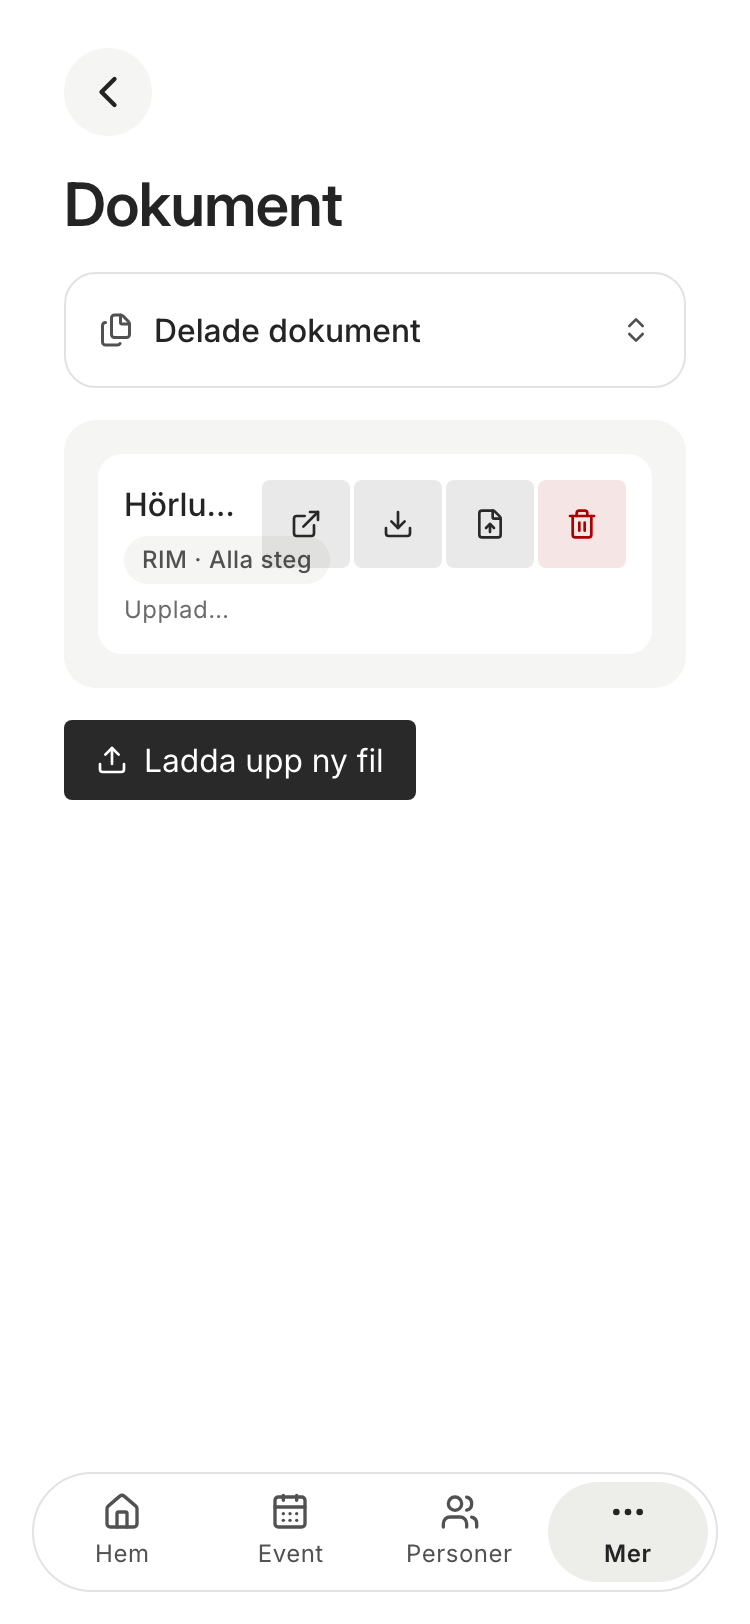
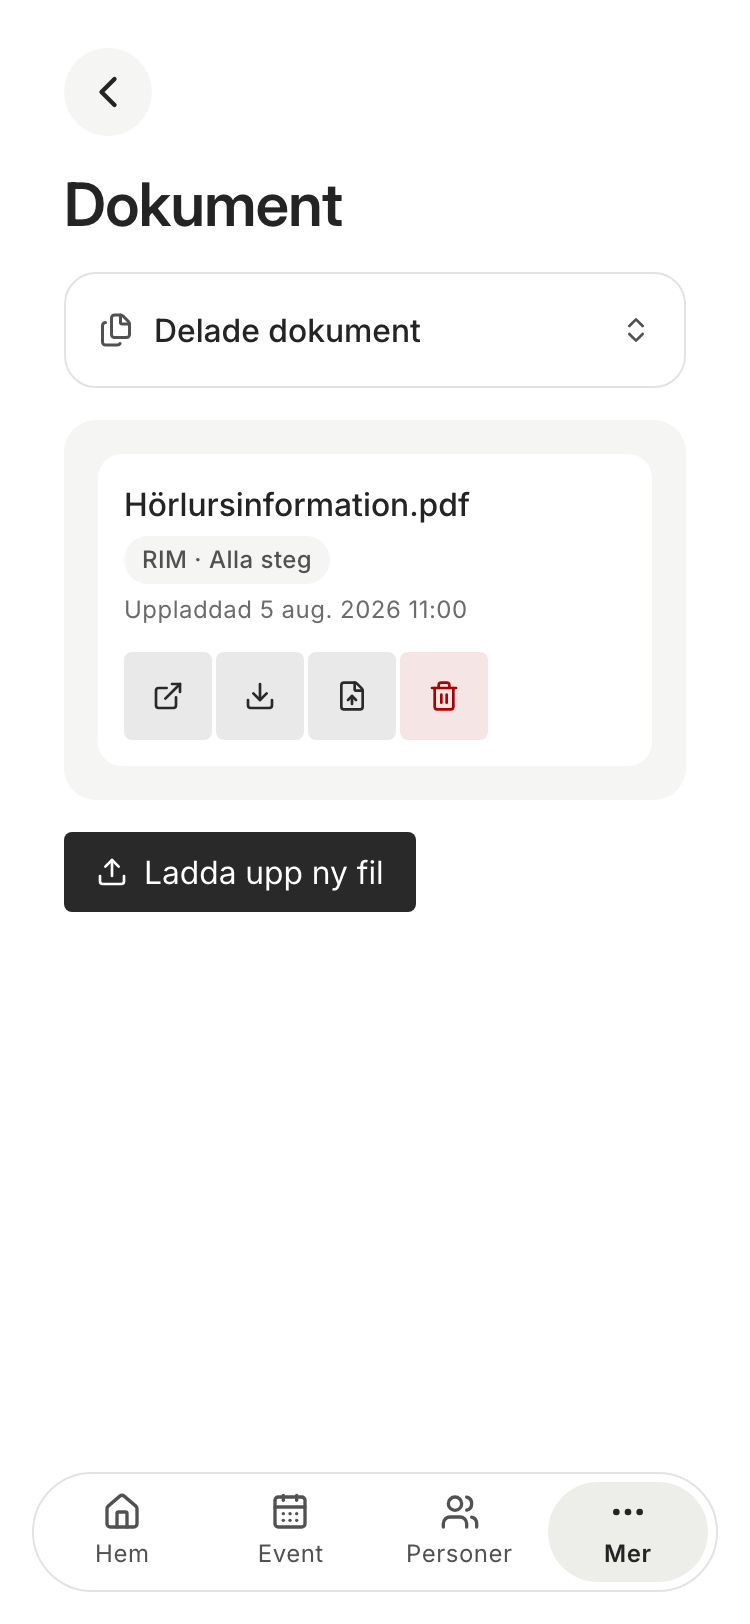
fix(dokument): [TASK-309.20] 375px-defekter i dokumentytan — badge-overlapp och namn-trunkering
Fixar två formdefekter avtäckta av skiva 9-agenten under facit-tagningen
(TASK-273.4-regressionen, b881fe64), lagade FÖRE Marcus stämplar skiva 9:s
facit-manifest (Marcus GO 2026-08-26, billigare än amendering efteråt):

- Räckviddslägets ikonknappar låg delvis över RackviddBadge-pillen vid
  375 px (badgen bar shrink-0 utan truncate, och dess flex-wrap-behållare
  saknade w-full/min-w-0 — en för bred badge flöt ut över grannkolumnen
  i stället för att klippas). Fixat i RackviddBadge.tsx och den delade
  TACKNING_KLASS (DokumentYta.tsx), som bar samma sårbarhet för
  Mall-badgen.

- Event-mallade raders filnamn trunkerades till "Bekr…" vid 375 px när
  fyra ikonknappar (182 px) inte fick plats bredvid namnkolumnen.
  DokumentRadSkal fick flex-wrap + namnkolumnens golv min-w-[12ch] i
  stället för min-w-0 — den redan dokumenterade fallback-planen
  (IKONKNAPP_KLASS docblock, Marcus 2026-08-17: "rätt svar är att låta
  raden bryta, inte att krympa träffytan"). Ikonkolumnen bryter nu till
  en egen rad när båda inte får plats; namnet får då hela radbredden.

De två mobila facit-bilderna i s108-dokumentytan/ är omtagna med samma
rigg/metod som skiva 9 (hermetisk fixturvärld, animations disabled,
375×812 @2x, ingen fullPage). facit.json "not"-fält uppdaterat, "godkand"
orört.

diff --git a/src/components/dokument/DokumentYta.tsx b/src/components/dokument/DokumentYta.tsx
@@ -653,9 +653,18 @@ const LISTA_MAXHOJD = 'max-h-[396px]';
  * NÄSTLINGEN, aldrig vanan.** Byter en behållare bakgrund måste allt som
  * ligger I den prövas om — och prövningen är en mätning av `backgroundColor`,
  * inte en blick på klassnamnet.
+ *
+ * [TASK-309.20] `min-w-0 max-w-full truncate`, INTE `shrink-0` — samma fix
+ * som `RackviddBadge.tsx` fick, av samma mätta skäl (se dess docblock för
+ * pixelbeläggen): en Mall-badge med lång text ("Bekräftelsebilaga", 17 tecken)
+ * i en Event-mallad rad vid 375 px flöt annars ut över ikonknapparna på
+ * exakt samma sätt som räckviddsbadgen — X-överlappet mättes (badge
+ * `x=62 width=121` mot första knappens `x=131`), även om Y-banden råkade
+ * missa varandra i just den mätta raden. Samma underliggande arkitekturfel,
+ * så samma fix på den delade klassen.
  */
 const TACKNING_KLASS =
-  'inline-flex shrink-0 items-center rounded-full border border-transparent bg-bg-muted px-2 py-0.5 font-medium text-caption text-text-secondary contrast-more:border-border-strong';
+  'inline-flex min-w-0 max-w-full items-center truncate rounded-full border border-transparent bg-bg-muted px-2 py-0.5 font-medium text-caption text-text-secondary contrast-more:border-border-strong';
 const IKON_STORLEK = 16;
 
 function MetaRad({ delar }: { delar: (string | null)[] }) {
@@ -874,6 +883,42 @@ function DokumentAtgardsKnappar({ namn, kalla }: { namn: string; kalla: Dokument
  *
  * "+N ÄLDRE FILER" FLYTTADE IN I DATUMLEDET. Den stod som en fjärde rad och
  * bröt låsningen för just de rader som hade dubbletter.
+ *
+ * ═══ [TASK-309.20] RADEN BRYTER NU VID 375 px NÄR FYRA IKONKNAPPAR INTE
+ * FÅR PLATS — "skyddsnätet" höll inte för NORMALFALLET ═══
+ *
+ * Mätt (facit `s108-generering/facit-dokumentlista-inaktuell-rad-mobil.png`
+ * + `s108-dokumentytan/facit-dokumentyta-rackviddslage-mobil.png`): en
+ * Event-mallad rad med FYRA handlingar (Öppna/Ladda ner/Skapa om/Ersätt,
+ * `IKONKNAPP_KLASS`s egen räkning: 4×44 px + 3×2 px = 182 px) trunkerade
+ * "Bekräftelsebilaga.pdf" till "Bekr…" — fyra tecken, inte den 17–24-tecken-
+ * normalen stycket ovan förutsätter. Orsaken är ARITMETISK, inte kosmetisk:
+ * vid 375 px är radens tillgängliga bredd (mätt, `RAD_BOX`) 251 px; 182 px
+ * ikonkolumn + 12 px mellanrum lämnar bara 57 px åt namnet — under
+ * "skyddsnät för undantaget"-antagandet stycket ovan bygger på.
+ *
+ * FIXEN ÄR DEN REDAN DOKUMENTERADE PLANEN (`IKONKNAPP_KLASS`s docblock,
+ * Marcus 2026-08-17): *"Skulle bredden ändå inte räcka på en smal skärm är
+ * rätt svar att låta raden bryta, inte att krympa träffytan."* Namnkolumnen
+ * bär nu `min-w-[12ch]` i stället för `min-w-0` (ETT golv, ingen ceiling —
+ * kolumnen krymper fortfarande till EXAKT den bredd raden ger den så länge
+ * båda får plats på en rad, precis som förut). Radens eget skal fick
+ * `flex-wrap`: när ikonkolumnens (`shrink-0`, ingen tillåten krympning)
+ * hypotetiska bredd + namnkolumnens 12ch-golv + mellanrummet överskrider
+ * radens bredd, flyttar CSS-motorn ikonkolumnen till en EGEN rad under —
+ * namnkolumnen står då ensam på sin rad och `flex-1` fyller HELA bredden
+ * (251 px i det mätta fallet, gott om plats för "Bekräftelsebilaga.pdf" i
+ * sin helhet). Vid gott om bredd (skrivbord, eller mobil med färre knappar)
+ * händer ingenting nytt — vägen är oförändrad.
+ *
+ * DETTA BRYTER INTE höjdlåsningen ovan: samma facit-bild visar att rader
+ * REDAN varierar i höjd med sitt innehåll (raden med tre badgar — Detta
+ * event/Mall/Inaktuell — är synligt högre än syskonraderna med bara en).
+ * Låsningen är ett GOLV (namn/täckning/datum renderas ALLTID, aldrig
+ * kortare), inte ett tak — en rad får vara högre när den bär mer, och en
+ * rad vars ikonkolumn bryter till en egen rad är samma sorts variation.
+ * 12ch är ett MEDVETET, JUSTERBART golv (motsvarande knapparnas egna 44 px-
+ * golv i princip, inte i magnitud) — inte en ny interaktionsform.
  */
 function DokumentRadSkal({
   namn,
@@ -889,8 +934,8 @@ function DokumentRadSkal({
   handlingar: React.ReactNode;
 }) {
   return (
-    <div data-testid="dokument-fil" className="flex items-start gap-3 py-3">
-      <span className="flex min-w-0 flex-1 flex-col items-start gap-1">
+    <div data-testid="dokument-fil" className="flex flex-wrap items-start gap-3 py-3">
+      <span className="flex min-w-[12ch] flex-1 flex-col items-start gap-1">
         <span className="w-full min-w-0 truncate font-medium text-body" title={namn}>
           {namn}
         </span>
@@ -901,8 +946,17 @@ function DokumentRadSkal({
             varje icke-Event-mallad rad (uppladdade/person-genererade filer),
             så de allra flesta rader visar EXAKT samma två-badge-yta som
             förut. INAKTUELL bär TEXT, inte bara färg (`StatusBadge`,
-            WCAG 1.4.1 — samma disciplin som RackviddBadge/nivåbadgar). */}
-        <span className="flex flex-wrap items-center gap-1">
+            WCAG 1.4.1 — samma disciplin som RackviddBadge/nivåbadgar).
+
+            [TASK-309.20] `w-full min-w-0` TILLAGT — utan dem sizear denna
+            flex-wrap-rad sig efter sitt EGET innehåll (kolumnens
+            `items-start` stretchar inte barn), så badgens tilldelade bredd
+            var odefinierad och en enda för bred badge (`shrink-0`) flöt rakt
+            ut över ikonknapparna i stället för att TRUNKERAS inom raden.
+            Samma `w-full min-w-0`-par som namnspannet ovan bär redan, av
+            samma skäl (`DokumentRadSkal`s docblock). Se `RackviddBadge.tsx`
+            och `TACKNING_KLASS` för motsvarande fix på badgens egen sida. */}
+        <span className="flex w-full min-w-0 flex-wrap items-center gap-1">
           <RackviddBadge
             rackvidd={current.rackvidd}
             kursfamilj={current.kursfamilj}

diff --git a/src/components/dokument/RackviddBadge.tsx b/src/components/dokument/RackviddBadge.tsx
@@ -60,7 +60,10 @@ export function RackviddBadge({
   // i badgen — den säger nu bara vad DEN HÄR raden gäller också.
   if (rackvidd !== AttachmentScope.KURSTYP && rackvidd !== AttachmentScope.ALLA_EVENT) {
     return (
-      <span className="inline-flex shrink-0 items-center rounded-full border border-transparent bg-bg-muted px-2 py-0.5 font-medium text-caption text-text-secondary contrast-more:border-border-strong">
+      <span
+        className="inline-flex min-w-0 max-w-full items-center truncate rounded-full border border-transparent bg-bg-muted px-2 py-0.5 font-medium text-caption text-text-secondary contrast-more:border-border-strong"
+        title="Detta event"
+      >
         Detta event
       </span>
     );
@@ -128,7 +131,35 @@ export function RackviddBadge({
     // NÄSTLINGEN, aldrig vanan — och "syns den?" besvaras med en mätning av
     // `backgroundColor` i renderad yta, aldrig med en blick på klassnamnet
     // eller ett resonemang om vilken yta som "brukar" bära vad.
-    <span className="inline-flex shrink-0 items-center rounded-full border border-transparent bg-bg-muted px-2 py-0.5 font-medium text-caption text-text-secondary contrast-more:border-border-strong">
+    //
+    // ═══ `min-w-0 max-w-full truncate`, INTE `shrink-0` — TASK-309.20 ═══
+    //
+    // Pillen bar `shrink-0` sedan tillkomsten. Mätt vid 375 px (räckviddsläget,
+    // badgetexten "RIM · Alla steg", Playwright mot hermetisk fixturvärld,
+    // se TASK-309.20s Final Summary för hela mätserien): badgens box
+    // `x=62 width=103` mot första ikonknappens `x=131` — badgen fortsatte
+    // 34 px IN i knapp-kolumnen, och knappen (senare i DOM-ordningen, samma
+    // stapelkontext) målades ovanpå. Ground truth: den stämplade facit-bilden
+    // `tasks/sessions/bilagor/s108-dokumentytan/facit-dokumentyta-rackviddslage-mobil.png`
+    // visar exakt detta — badgens högra kant syns bakom den röda
+    // Radera-knappen.
+    // `shrink-0` förbjuder krympning, så när badgens naturliga textbredd är
+    // större än kolumnens tilldelade utrymme finns bara en väg ut: den flyter
+    // över `overflow: visible` (default) rakt in i grannkolumnen.
+    //
+    // Fixen är samma idiom filnamnet redan bär (`DokumentYta.tsx`s
+    // `DokumentRadSkal`-docblock: "NAMNET TRUNKERAS I STÄLLET FÖR ATT
+    // RADBRYTA … truncate kräver min-w-0"): tillåt krympning (utelämna
+    // `shrink-0`, default är `flex-shrink: 1`), `min-w-0` river det implicita
+    // `min-width: auto` som annars vägrar krympa under textens egen bredd, och
+    // `truncate` klipper med ellips i stället för att låta texten svämma över
+    // pillens rundade kant. Behållaren måste ÄVEN vara bredd-bunden
+    // (`DokumentYta.tsx`s badge-rad bär nu `w-full min-w-0` av samma skäl) —
+    // annars finns inget "tillgängligt utrymme" att krympa MOT.
+    <span
+      className="inline-flex min-w-0 max-w-full items-center truncate rounded-full border border-transparent bg-bg-muted px-2 py-0.5 font-medium text-caption text-text-secondary contrast-more:border-border-strong"
+      title={text}
+    >
       {text}
     </span>
   );

diff --git a/backlog/tasks/task-309.20 - Dokumentytan-vid-375-px-filnamn-trunkeras-och-ikonknappar-ligger-över-räckviddsbadgen.md b/backlog/tasks/task-309.20 - Dokumentytan-vid-375-px-filnamn-trunkeras-och-ikonknappar-ligger-över-räckviddsbadgen.md
@@ -6,6 +6,7 @@ title: >-
 status: To Do
 assignee: []
 created_date: '2026-08-24 17:54'
+updated_date: '2026-08-26 02:51'
 labels:
   - ready-for-agent
 dependencies: []
@@ -33,10 +34,10 @@ Agenten bokförde observationen i manifestens not-fält i stället för att tyst
 
 ## Acceptance Criteria
 <!-- AC:BEGIN -->
-- [ ] #1 Filnamnet på Event-mallade rader är läsbart vid 375 px — trunkeringen ger tillräckligt med tecken för att skilja dokumenten åt
-- [ ] #2 Ikonknapparna ockluderar inte räckviddsbadgen i räckviddsläget vid 375 px
-- [ ] #3 Avgjort och bokfört: lagas FÖRE Marcus stämplar skiva 9:s facit (billigare), eller efter med amendering (ADR-102 klass c)
-- [ ] #4 Regressionsskydd: den mobila vyporten bär facit för båda lägena efter fixen
+- [x] #1 Filnamnet på Event-mallade rader är läsbart vid 375 px — trunkeringen ger tillräckligt med tecken för att skilja dokumenten åt
+- [x] #2 Ikonknapparna ockluderar inte räckviddsbadgen i räckviddsläget vid 375 px
+- [x] #3 Avgjort och bokfört: lagas FÖRE Marcus stämplar skiva 9:s facit (billigare), eller efter med amendering (ADR-102 klass c)
+- [x] #4 Regressionsskydd: den mobila vyporten bär facit för båda lägena efter fixen
 <!-- AC:END -->
 
 ## Definition of Done
@@ -45,3 +46,30 @@ Agenten bokförde observationen i manifestens not-fält i stället för att tyst
 - [ ] #2 Rörd fil-klass lokala grindar gröna (L147)
 - [ ] #3 Inga orelaterade filer i diffen (path-scopad add)
 <!-- DOD:END -->
+
+## Implementation Notes
+
+<!-- SECTION:NOTES:BEGIN -->
+Marcus GO i klartext 2026-08-26 ("GO 309.20"), efter orkestrerarens rekommendation
+att laga FÖRE facit-stämplingen (billigare än amendering efteråt). Beslutet
+avgör AC #3: vägen är "lagas FÖRE Marcus stämplar skiva 9:s facit" — bekräftat
+genomfört i denna skiva (TASK-309.20), samma PR som koden.
+
+Fix, mätt (Playwright mot hermetisk fixturvärld, visual-mobile 375x812@2x):
+- Defekt 2 (badge ockluderad av ikonknappar i räckviddsläget): RackviddBadge.tsx
+  + DokumentYta.tsx (TACKNING_KLASS + badge-radens wrapper) fick min-w-0/truncate
+  i stället för shrink-0. Badge x=62 w=103 mot knapp x=131 (34px overlap) -> ingen
+  overlap efter fix.
+- Defekt 1 (Event-mallad rads filnamn trunkerat till "Bekr..."): DokumentRadSkal
+  fick flex-wrap + namnkolumnens golv min-w-[12ch] i stallet for min-w-0 - vid
+  375px med 4 ikonknappar (182px) wrappar knapparna till egen rad, namnet far
+  full radbredd. "Bekräftelsebilaga.pdf" (21 tecken) fullt synligt efter fix
+  (var truncated till ~7 tecken fore, ground truth-facit visade "Bekr...").
+
+De två mobila facit-bilderna i s108-dokumentytan/ omtagna med samma
+rigg/metod (AC #4). facit.json "not"-falt uppdaterat, "godkand" ororg.
+
+OBS: syskonkatalogen s108-generering/facit-dokumentlista-inaktuell-rad-mobil.png
+visar defekt 1 konkret men ar INTE omtagen av denna skiva - utanfor AC #4:s
+uttryckliga scope (bara s108-dokumentytan namndes). Flaggat i Final Summary.
+<!-- SECTION:NOTES:END -->
